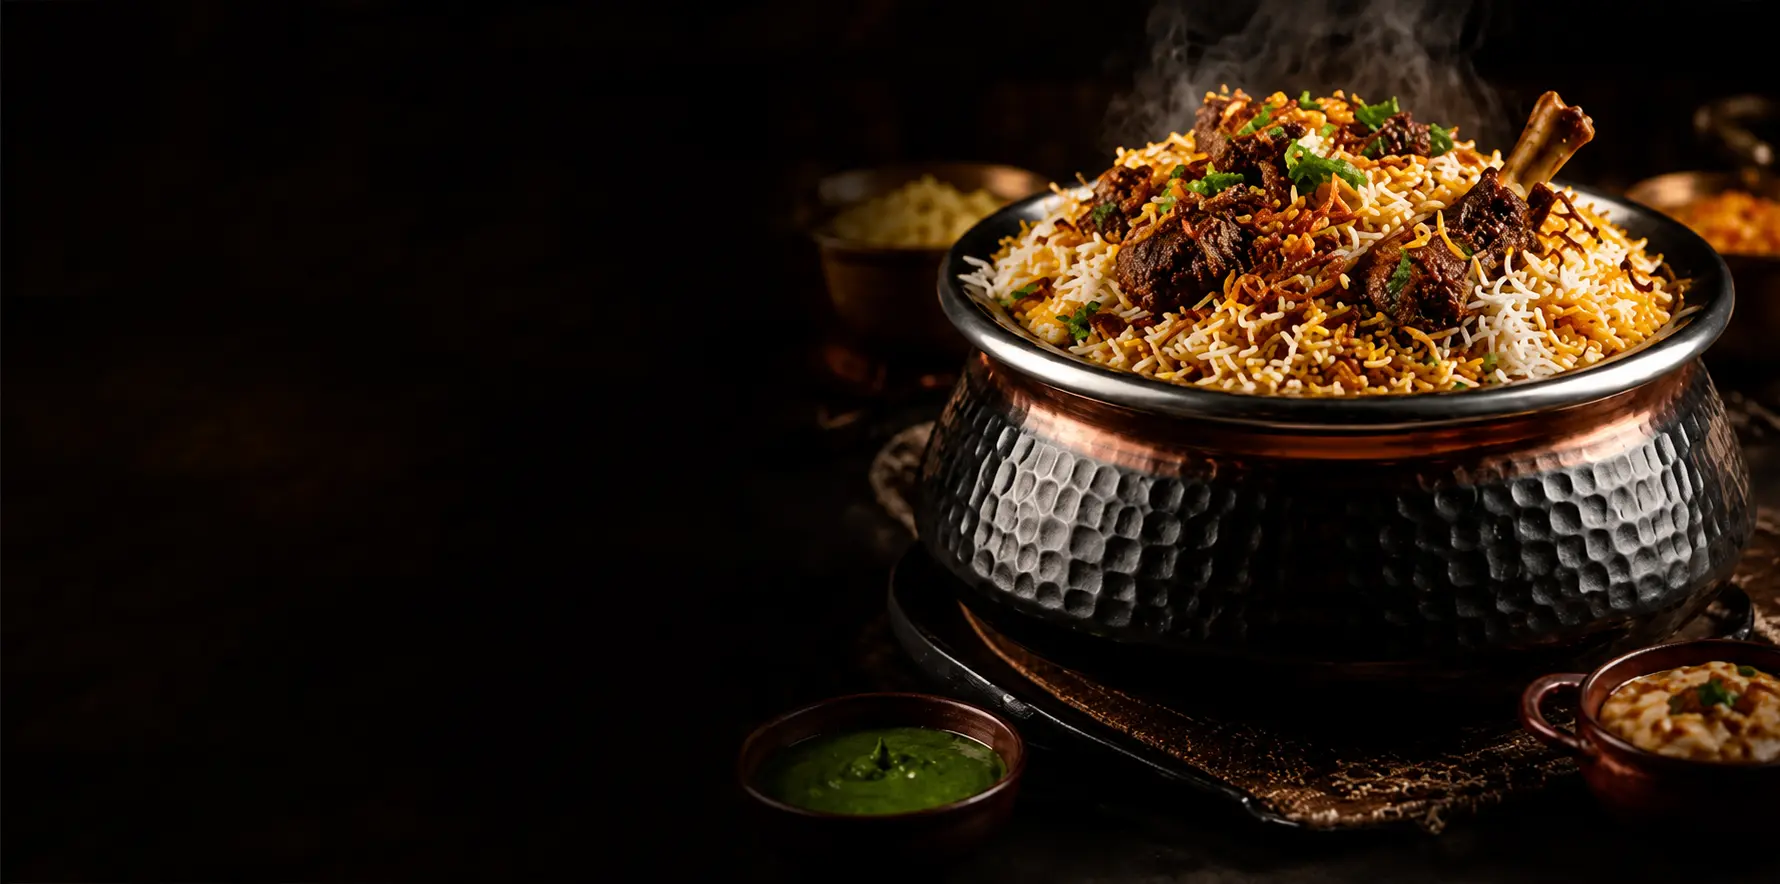
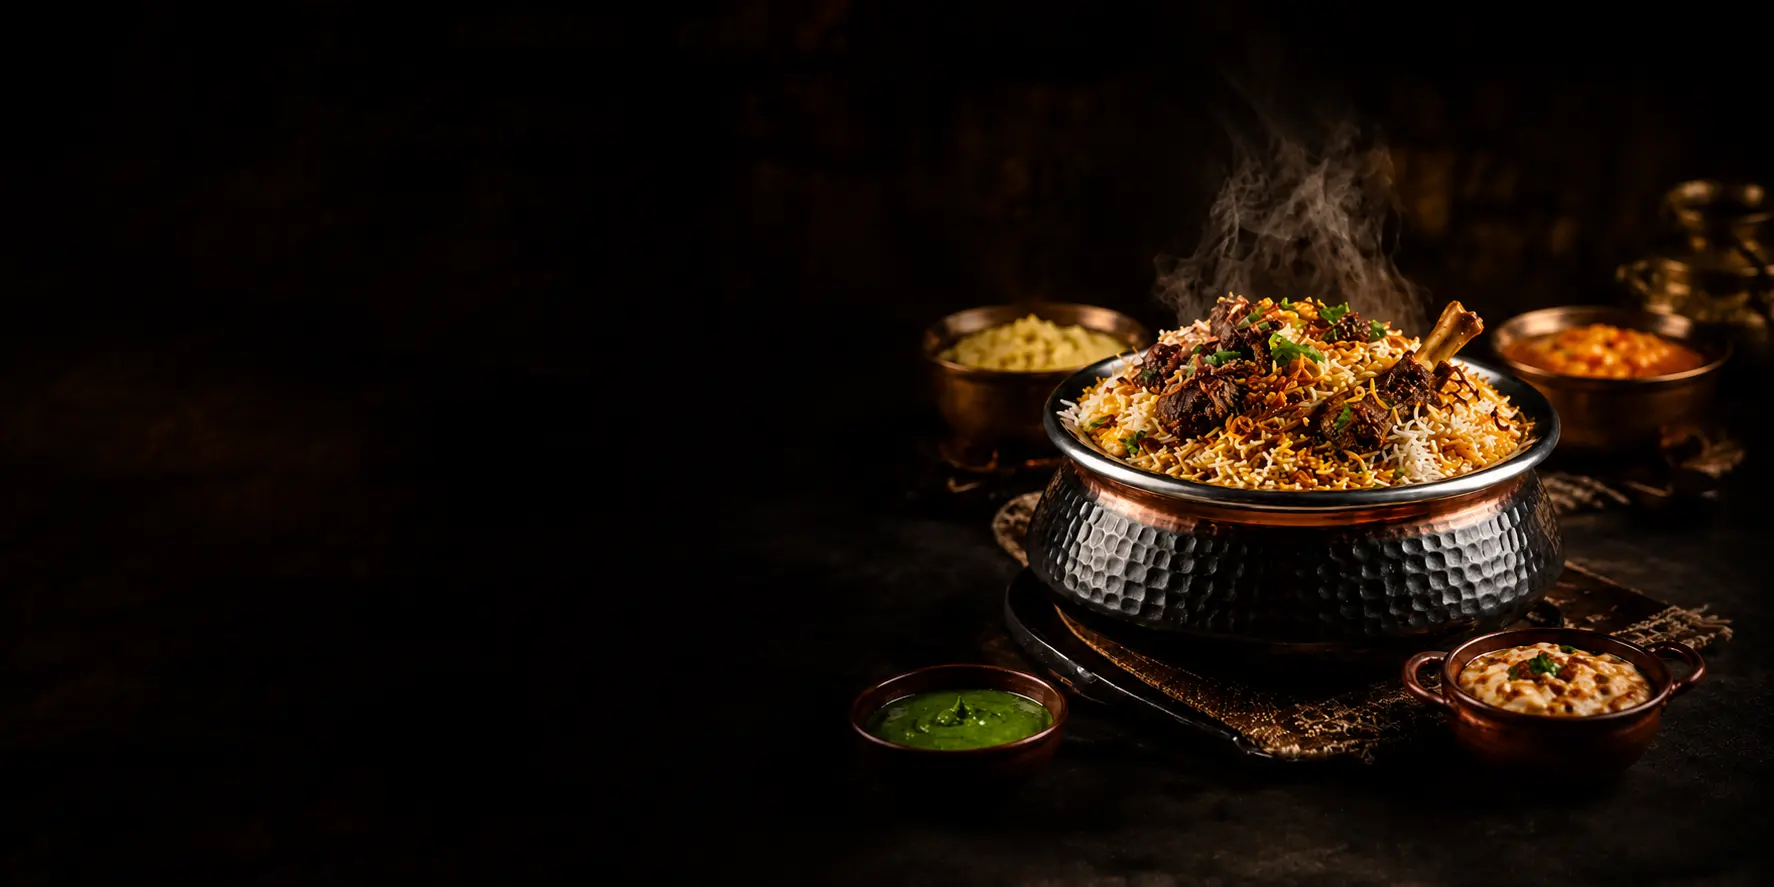
Redesign Hero Section to match premium brand image

Changed region(s): [[0.403, 0.0, 1.0, 1.0], [0.4651, 0.3971, 0.4961, 0.4276]]

diff --git a/src/components/HeroSection.tsx b/src/components/HeroSection.tsx
@@ -3,7 +3,6 @@
 import { ShoppingBag, Scale, ChefHat, Truck } from 'lucide-react';
 
 export default function HeroSection() {
-  // Features array matching your image
   const features = [
     { icon: Scale, text: "BY WEIGHT Served" },
     { icon: ChefHat, text: "FRESHLY Prepared" },
@@ -11,50 +10,54 @@ export default function HeroSection() {
   ];
 
   return (
-    <section className="relative min-h-[85vh] md:min-h-[90vh] flex items-center justify-center text-center overflow-hidden">
+    <section className="relative w-full min-h-[85vh] flex items-center overflow-hidden">
       
-      {/* Background Image (Full Screen) */}
+      {/* Background Image */}
       <img 
         src="/hero-banner.webp" 
         alt="The Kilo Factory Authentic Food" 
-        className="absolute inset-0 w-full h-full object-cover"
+        className="absolute inset-0 w-full h-full object-cover object-right md:object-center"
       />
       
-      {/* Dark Overlay for Text Readability */}
-      <div className="absolute inset-0 bg-gradient-to-b from-black/70 via-black/50 to-black/80"></div>
+      {/* Left-Side Dark Gradient Overlay (Extended further right) */}
+      <div className="absolute inset-0 bg-gradient-to-r from-black/95 via-black/80 to-transparent"></div>
       
-      {/* Centered Content Overlay */}
-      <div className="relative z-10 max-w-3xl px-4 py-16 space-y-8 flex flex-col items-center">
+      {/* Content Container (Increased width to 60%, reduced vertical spacing) */}
+      <div className="relative z-10 w-full md:w-3/5 lg:w-[55%] h-full flex flex-col justify-center px-6 md:px-12 lg:px-20 py-10 text-left space-y-4 md:space-y-6">
         
         {/* Main Typography */}
-        <h1 className="font-royal text-4xl md:text-6xl font-bold leading-tight text-gold drop-shadow-lg">
-          Authentic Flavours. <br/> 
-          <span className="text-ivory">ROYAL TASTE, BY THE KILO.</span>
-        </h1>
+        <div className="space-y-1.5 md:space-y-2">
+          <h1 className="font-royal text-2xl sm:text-3xl md:text-4xl lg:text-5xl font-bold leading-tight drop-shadow-lg">
+            <span className="text-gold">Authentic Flavours.</span> <br/> 
+            <span className="text-ivory">ROYAL TASTE, BY THE KILO.</span>
+          </h1>
+          
+          {/* Subtitle */}
+          <p className="text-sm md:text-base lg:text-lg text-ivory/90 max-w-md font-medium drop-shadow-md">
+            Authentic Kebabs, Biryani & Curries — By Weight, Delivered Fresh.
+          </p>
+        </div>
         
-        {/* Subtitle */}
-        <p className="text-lg md:text-xl text-ivory/90 max-w-2xl font-medium drop-shadow-md">
-          Authentic Kebabs, Biryani & Curries — By Weight, Delivered Fresh.
-        </p>
-        
-        {/* Features List (Pill Badges) */}
-        <div className="flex flex-wrap justify-center gap-3 md:gap-4 py-2">
+        {/* Features List */}
+        <div className="flex flex-col gap-2.5 md:gap-3">
           {features.map((feat, i) => (
-            <div key={i} className="flex items-center gap-2 text-sm font-semibold text-ivory bg-black/30 backdrop-blur-sm px-4 py-2 rounded-full border border-gold/30">
-              <feat.icon className="size-5 text-gold" />
-              <span>{feat.text}</span>
+            <div key={i} className="flex items-center gap-3 text-sm md:text-base font-semibold text-ivory">
+              <feat.icon className="size-5 text-gold drop-shadow" />
+              <span className="drop-shadow">{feat.text}</span>
             </div>
           ))}
         </div>
 
         {/* CTA Button */}
-        <button 
-          onClick={() => document.getElementById('menu-section')?.scrollIntoView({ behavior: 'smooth' })}
-          className="inline-flex items-center gap-2 bg-gold-gradient text-bark font-bold px-10 py-4 rounded-full shadow-xl hover:scale-105 transition-transform cursor-pointer text-lg"
-        >
-          <ShoppingBag className="size-6" />
-          ORDER NOW
-        </button>
+        <div className="pt-1">
+          <button 
+            onClick={() => document.getElementById('menu-section')?.scrollIntoView({ behavior: 'smooth' })}
+            className="inline-flex items-center gap-2 bg-gold-gradient text-bark font-bold px-7 py-3 md:py-3.5 rounded-full shadow-xl hover:scale-105 transition-transform cursor-pointer text-sm md:text-base"
+          >
+            <ShoppingBag className="size-5" />
+            ORDER NOW
+          </button>
+        </div>
 
       </div>
     </section>